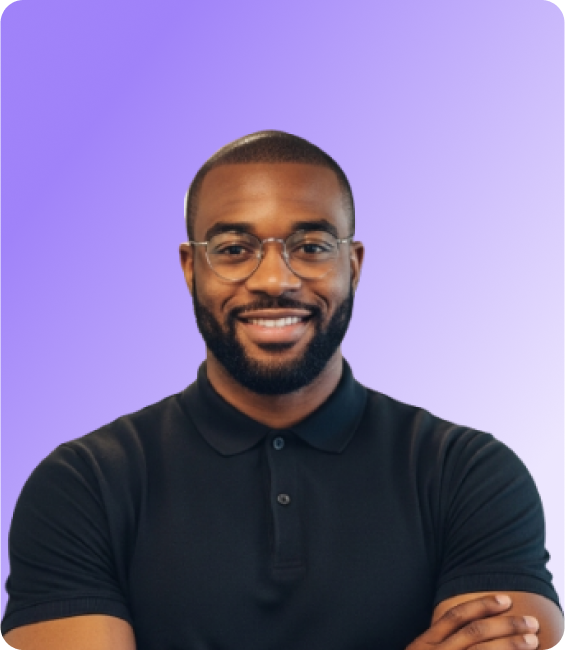
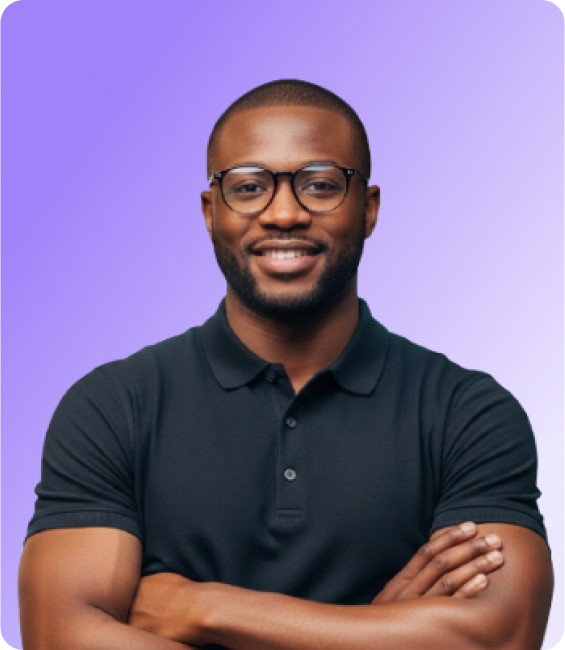
fixed landing pages, fixed learn page
remaining to fix the blog page

diff --git a/components/home/MobileHome.tsx b/components/home/MobileHome.tsx
@@ -76,18 +76,18 @@ export default function MobileHome() {
             {[
               {
                 img: "/follow-trade.svg",
-                title: "Follow top traders",
-                desc: "Browse verified expert traders, check their stats, risk levels, and trading style before following.",
+                title: "Awareness",
+                desc: "Get introduced to digital finance, assets, and tools in plain language, with relatable, real-life examples.",
               },
               {
                 img: "/copy-trades.svg",
-                title: "Copy Trades in Real Time",
-                desc: "Once you follow a trader, Streple mirrors their trades to your simulated account.",
+                title: "Understanding",
+                desc: "Each trade comes with tips, insights, and clear breakdowns so you understand the reason behind every move.",
               },
               {
                 img: "/learn-more.svg",
-                title: "Learn As you Grow",
-                desc: "Each trade comes with tips, insights, and clear breakdowns so you understand the reason behind every move.",
+                title: "Participation",
+                desc: "Build skills, take action, and step into digital ownership with full support and a thriving community.",
               },
             ].map(({ img, desc, title }, i) => (
               <div
@@ -130,14 +130,12 @@ export default function MobileHome() {
             <h3
               className={`text-gradient-earn-profits tracking-[2px] leading-[150%] font-normal text-2xl xs:text-[27px] md:text-3xl ${anton.className}`}
             >
-              Earn profits without lifting a finger
+              Learn From the Best
             </h3>
 
             <div className="flex flex-col gap-8">
               <p className="font-normal text-sm md:text-base tracking-[1px] leading-8 ">
-                Stop stressing over charts and market news. With Streple, you
-                copy the exact trades of top-performing experts automatically.
-                You trade smarter, even when you&apos;re offline.
+                Copy verified expert traders with proven track records. Analyze their approaches and replicate their success.
               </p>
 
               <a
@@ -182,13 +180,12 @@ export default function MobileHome() {
             <span
               className={`text-gradient-earn-profits tracking-[2px] leading-[150%] font-normal text-2xl xs:text-[27px] md:text-3xl ${anton.className}`}
             >
-              Learn the Why Behind Every Trade
+              Send, Receive and Withdraw. Anytime, Anywhwere
             </span>
 
             <div className="flex flex-col gap-6">
               <p className="font-normal text-sm md:text-base tracking-[1px] leading-8 ">
-                Go beyond just copying — discover what each trade means, why it
-                happened, and how to build confidence with every move you make.
+                Fund your Streple wallet from any Nigerian bank, receive money globally and withdraw instantly
               </p>
 
               <a
@@ -197,7 +194,7 @@ export default function MobileHome() {
                 rel="noopener noreferrer"
                 className="flex flex-row items-center gap-3 leading-[150%] tracking-[2px] font-bold text-[20px] text-[#DFD735]"
               >
-                Explore Streple Learn
+                Get Started
                 <GoArrowRight size={16} />
               </a>
             </div>
@@ -205,16 +202,16 @@ export default function MobileHome() {
 
           <Image
             loading="lazy"
-            src="/learn-the-why.webp"
-            alt="learn the why"
+            src="/send-and-receive.png"
+            alt="send, receive and withdraw"
             width={564}
             height={650}
             className="md:hidden mt-12 mx-auto"
           />
           <Image
             loading="lazy"
-            src="/learn-the-why.webp"
-            alt="learn the why"
+            src="/send-and-receive.png"
+            alt="send, receive and withdraw"
             width={564}
             height={650}
             className="hidden md:block h-[491px] w-[380px] mt-12 mx-auto"

diff --git a/app/learn/_components/courses.tsx b/app/learn/_components/courses.tsx
@@ -8,6 +8,7 @@ import Image from "next/image";
 import Link from "next/link";
 import { GoArrowRight } from "react-icons/go";
 import ArticleSkeleton from "./skeleton";
+import { useState } from "react";
 
 type Course = {
   id: string;
@@ -41,14 +42,60 @@ export default function Courses() {
       ).data,
   });
 
+  const [showAll, setShowAll] = useState<boolean>(true);
+  const [showArticles, setShowArticles] = useState<boolean>(false);
+  const [showVideos, setShowVideos] = useState<boolean>(false);
+
+  function handleShowAll() {
+    setShowAll(true);
+    setShowArticles(false);
+    setShowVideos(false);
+  }
+
+  function handleShowArticles() {
+    setShowAll(false);
+    setShowArticles(true);
+    setShowVideos(false);
+  }
+
+  function handleShowVideos() {
+    setShowAll(false);
+    setShowArticles(false);
+    setShowVideos(true);
+  }
+
   return (
     <section className="bg-[#1D1B1E] flex px-4 sm:px-[6.4%] justify-center relative">
       <div className="relative flex flex-col mw my-16 gap-[40px]">
-        <h4
-          className={`text-gradient-copy-top-traders ${anton.className} text-2xl lg:text-4xl leading-[150%] tracking-[2px]  font-normal`}
+        <h3
+          className={`text-gradient-copy-top-traders ${anton.className} text-2xl lg:text-5xl leading-[150%] tracking-[2px] font-normal`}
         >
-          Beginner guides
-        </h4>
+          Learning guides
+        </h3>
+
+        <div className="flex flex-row gap-20 items-center">
+          <button
+            onClick={handleShowAll}
+            className="flex flex-col text-center items-center"
+          >
+            <span className="text-sm lg:text-xl text-white font-normal mb-3.5">All</span>
+            {showAll && <span className="w-21 border-2 border-[#F4E90E] rounded-md transition-all duration-500"></span>}
+          </button>
+          <button
+            onClick={handleShowArticles}
+            className="flex flex-col text-center items-center"
+          >
+            <span className="text-sm lg:text-xl text-white font-normal mb-3.5">Articles</span>
+            {showArticles && <span className="w-21 border-2 border-[#F4E90E] rounded-md transition-all duration-500"></span>}
+          </button>
+          <button
+            onClick={handleShowVideos}
+            className="flex flex-col text-center items-center"
+          >
+            <span className="text-sm lg:text-xl text-white font-normal mb-3.5">Videos</span>
+            {showVideos && <span className="w-21 border-2 border-[#F4E90E] rounded-md transition-all duration-500"></span>}
+          </button>
+        </div>
 
         {loading ? (
           <ArticleSkeleton length={6} />
@@ -122,6 +169,30 @@ export default function Courses() {
             <GoArrowRight size={16} className="text-[#EBF0D5]" />
           </Link>
         )}
+
+        {/* Copy Trading 101 */}
+        {/* TODO: check if mt-10 */}
+        <div className="flex flex-row justify-between mt-10">
+          <div className="flex flex-col gap-6">
+            <h4 className={`${anton.className} font-normal text-4xl leading-[150%] tracking-[2px] text-[#FFFFFFB2]`}>
+              Copy Trading 101: What It Is and How <br />
+              It Works (With Examples)</h4>
+            <button className="bg-[#B39FF0] px-16 py-3 rounded-[20px] w-max text-[#2C2C26] font-bold text-base">View</button>
+          </div>
+
+          <div className="flex flex-col gap-6 max-w-80">
+            <h5 className={`${anton.className} font-normal text-[27px] leading-[150%] tracking-[2px] text-white`}>
+              Top guides
+            </h5>
+
+            <div className="flex flex-col gap-5.5 font-semibold text-sm leading-[25px] tracking-[1px] text-[#FFFFFFB2]">
+              <span>Why Copy Trading Is Gaining Massive Popularity in 2025</span>
+              <span>How to Spot a Reliable Trader Before You Copy</span>
+              <span>Why Copy Trading Is Gaining Massive Popularity in 2025</span>
+              <span>Crypto Market Volatility: What It Means for Copy Traders</span>
+            </div>
+          </div>
+        </div>
       </div>
     </section>
   );

diff --git a/components/home/DesktopHome.tsx b/components/home/DesktopHome.tsx
@@ -92,7 +92,7 @@ export default function DesktopHome() {
               {
                 img: "/learn-more.svg",
                 title: "Participation",
-                desc: "Build skills, take action, and step into digital ownership with full support and a thriving community",
+                desc: "Build skills, take action, and step into digital ownership with full support and a thriving community.",
               },
             ].map(({ img, desc, title }, i) => (
               <div
@@ -206,7 +206,7 @@ export default function DesktopHome() {
           <Image
             loading="lazy"
             src="/send-and-receive.png"
-            alt="learn the why"
+            alt="send, receive and withdraw"
             width={564}
             height={650}
             className="w-401-h-518-lg w-501-h-647-xl xxl:w-[564px] xxl:h-[650px]"

diff --git a/app/learn/_components/blogs.tsx b/app/learn/_components/blogs.tsx
@@ -46,7 +46,7 @@ export default function Blogs() {
         <h4
           className={`${anton.className} text-2xl xs:text-[27px] sm:text-3xl md:text-4xl lg:text-[52px] text-gradient-copy-top-traders leading-[150%] tracking-[2px]`}
         >
-          Blogs
+          Latest Blogs
         </h4>
 
         {loading ? (
